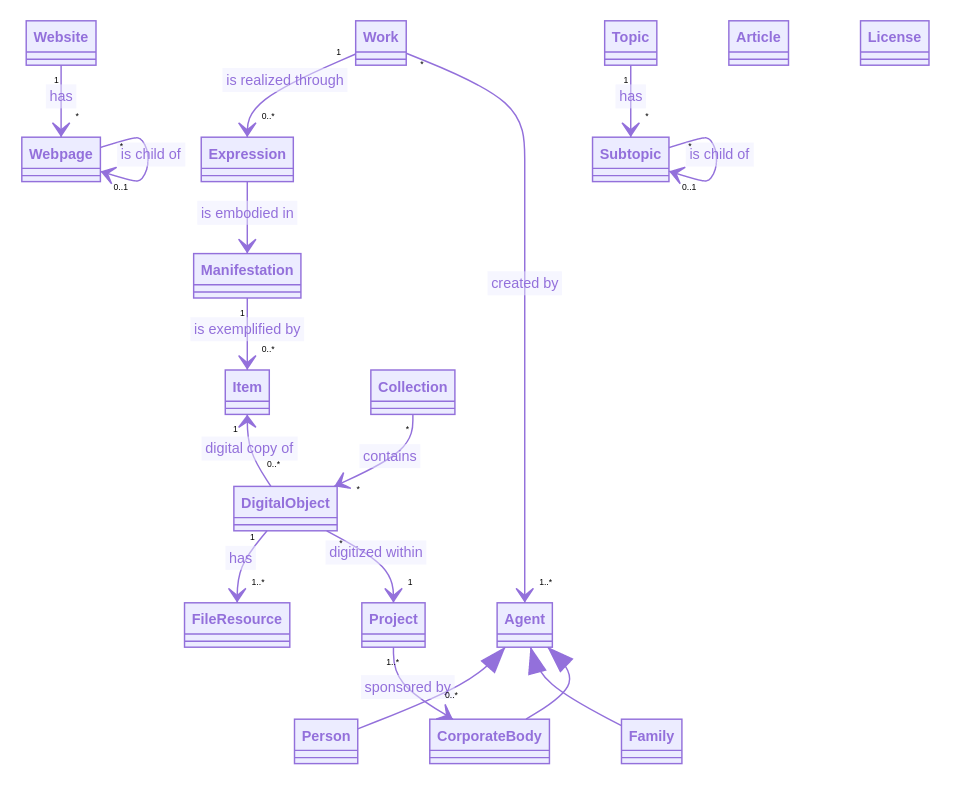
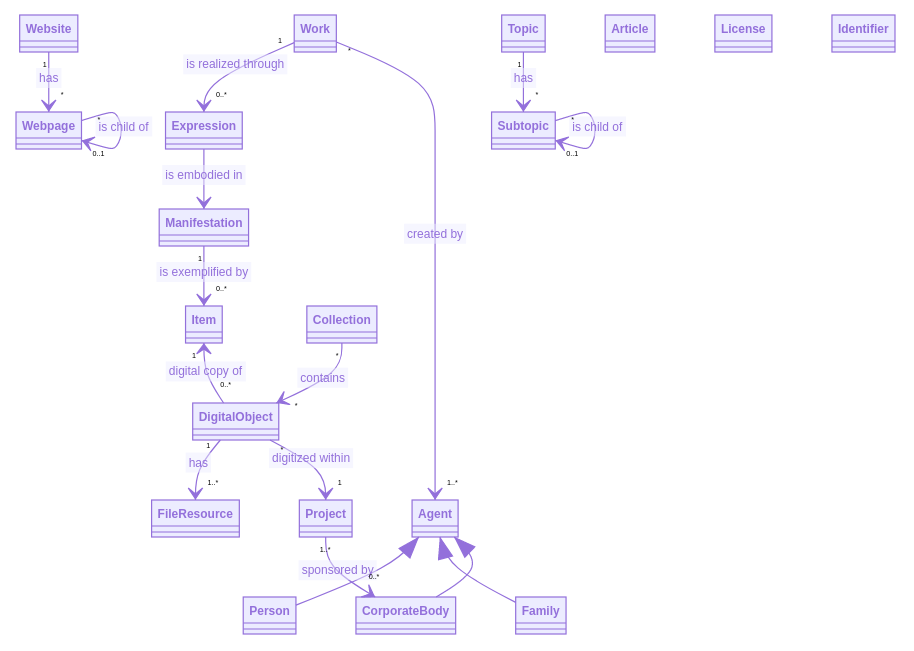
Add documentation and diagram

diff --git a/dc-model/src/main/java/de/digitalcollections/model/api/identifiable/IdentifierType.java b/dc-model/src/main/java/de/digitalcollections/model/api/identifiable/IdentifierType.java
@@ -2,6 +2,12 @@ package de.digitalcollections.model.api.identifiable;
 
 import java.util.UUID;
 
+/**
+ * Defines an identifier type to be used in the system implementing this library. It is up to the
+ * implementor to add all relevant identifier types to his system. Each IdentifierType can be
+ * described by a label, a namespace (describing the system) and a regex pattern for validating
+ * identifiers.
+ */
 public interface IdentifierType {
 
   String getLabel();

diff --git a/dc-model/src/main/java/de/digitalcollections/model/api/identifiable/Identifier.java b/dc-model/src/main/java/de/digitalcollections/model/api/identifiable/Identifier.java
@@ -2,6 +2,12 @@ package de.digitalcollections.model.api.identifiable;
 
 import java.util.UUID;
 
+/**
+ * An Identifier identifies an object uniquely in an external system that created the id. Each
+ * system is identified by a namespace.
+ *
+ * <p>Examples: GND-ID ("gnd:104330171") or VIAF-ID ("viaf:96994450")
+ */
 public interface Identifier {
 
   UUID getUuid();

diff --git a/dc-model/src/main/java/de/digitalcollections/model/api/identifiable/IdentifiableType.java b/dc-model/src/main/java/de/digitalcollections/model/api/identifiable/IdentifiableType.java
@@ -1,6 +1,6 @@
 package de.digitalcollections.model.api.identifiable;
 
-/** All {@link Identifiable} types cudami can handle */
+/** All {@link Identifiable} top types of this library. */
 public enum IdentifiableType {
   ENTITY,
   ENTITY_PART,

diff --git a/README.md b/README.md
@@ -10,7 +10,7 @@
 Java library containing Domain Object classes of the Digital Collection's and Digital Humanities ecosystem.
 Primarily started from the needs for [GLAM](https://en.wikipedia.org/wiki/GLAM_%28industry_sector%29)s (Galleries, Libraries, Archives, Museums) but not restricted to it.
 
-## Business Domain Model / Class Diagram
+## Business Domain Model
 
 The domain model follows the FRBR ([Functional Requirements for Bibliographic Records](https://en.wikipedia.org/wiki/Functional_Requirements_for_Bibliographic_Records)).
 The model is not restricted to books but can handle alle creative works and their digital counterparts ("copies").
@@ -26,13 +26,14 @@ and curated `Collections` as group of digital objects.
 
 ![Class Diagram](./domain-model.png)
 
-## Model-Serializing
+* For presenting digital collections online the library offers `Website` and `Webpage` classes.
+* For arranging and describing digital objects by topics the library offers `Topic` and `Subtopic` classes.
+* For editorial contribution in the context of digital collections the library offers `Article` with rich text formatting and embedding of different media.
 
-Comes with separate modules for supporting serializing model objects
+The following classes can be assigned to objects (where appropriate):
 
-- to JSON (dc-model-jackson module) using [Jackson](https://github.com/FasterXML/jackson)
-- to XML (dc-model-xml module) using [XStream](https://x-stream.github.io/)
-- to URL-params (dc-model-feign module) using [OpenFeign](https://github.com/OpenFeign/feign)
+* a freely definable `License`
+* a list of freely definable `Identifier`s, each of them identifying the object uniquely in an external source system, e.g. GND-ID ("gnd:104330171") or VIAF-ID ("viaf:96994450").
 
 ## Technical Model Classes
 
@@ -89,3 +90,15 @@ REST-API design for filtering was inspired by:
 
 - [REST API Design: Filtering, Sorting, and Pagination](https://www.moesif.com/blog/technical/api-design/REST-API-Design-Filtering-Sorting-and-Pagination/)
 - [An example application using Spring boot MVC, Spring Data JPA with the ability to do filter, pagination and sorting.](https://github.com/vijjayy81/spring-boot-jpa-rest-demo-filter-paging-sorting)
+
+## Model-Serializing
+
+Comes with separate modules for supporting serializing model objects
+
+- to JSON (dc-model-jackson module) using [Jackson](https://github.com/FasterXML/jackson)
+- to XML (dc-model-xml module) using [XStream](https://x-stream.github.io/)
+- to URL-params (dc-model-feign module) using [OpenFeign](https://github.com/OpenFeign/feign)
+
+## Systems implementing this library
+
+* [cudami (cultural digital asset management)](https://github.com/dbmdz/cudami)
